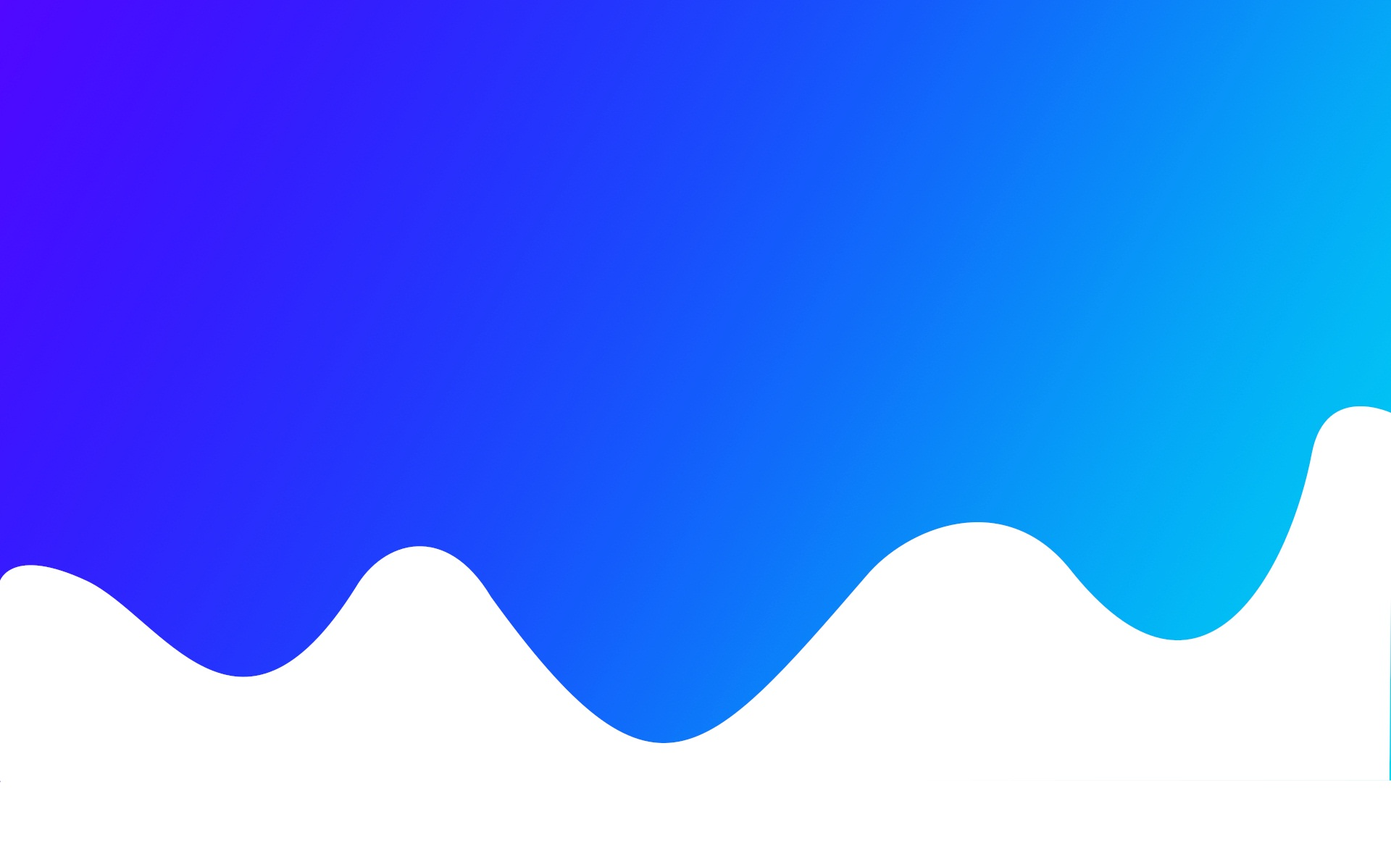
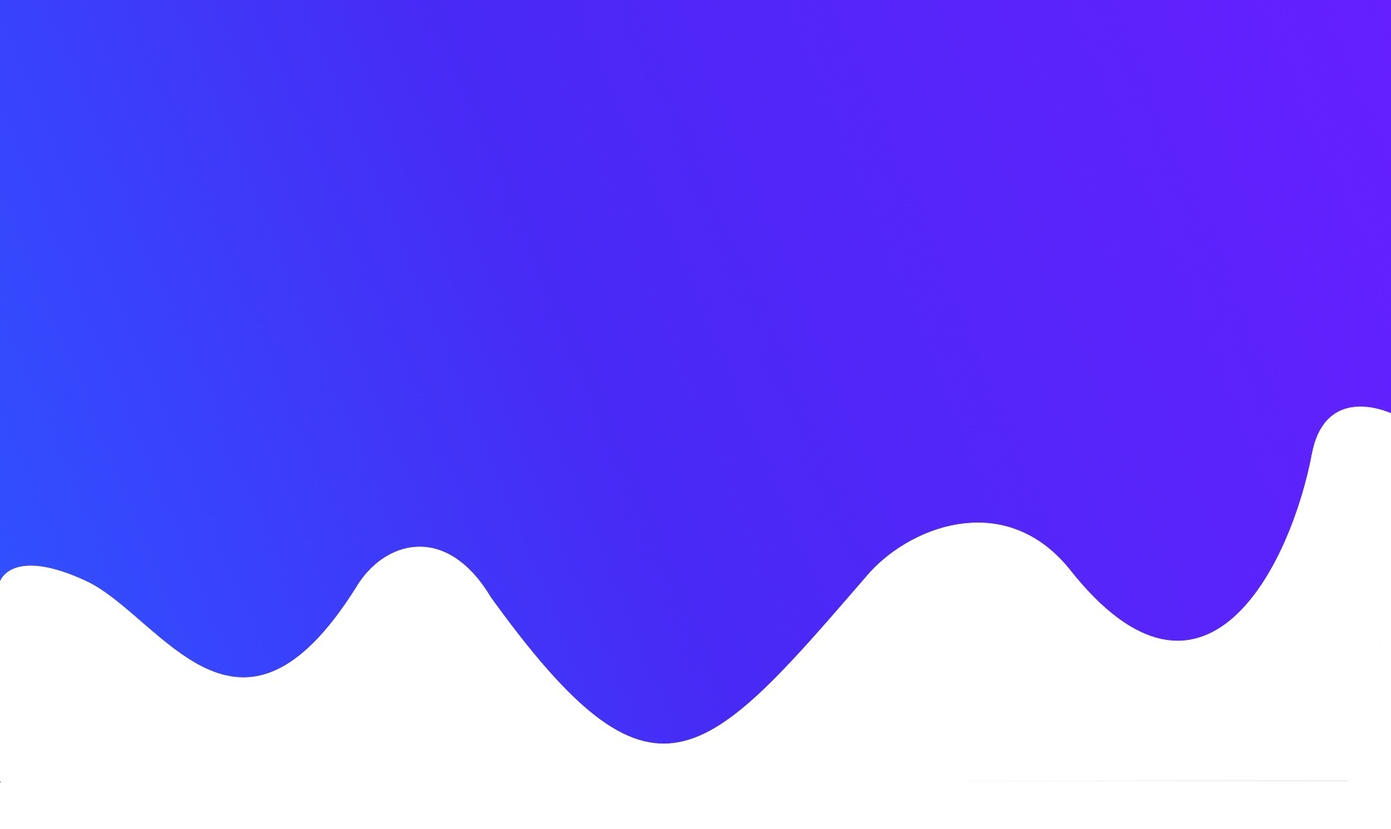
Add files via upload

diff --git a/css/aos.css b/css/aos.css
@@ -1,0 +1,1 @@
+[data-aos][data-aos][data-aos-duration="50"],body[data-aos-duration="50"] [data-aos]{transition-duration:50ms}[data-aos][data-aos][data-aos-delay="50"],body[data-aos-delay="50"] [data-aos]{transition-delay:0}[data-aos][data-aos][data-aos-delay="50"].aos-animate,body[data-aos-delay="50"] [data-aos].aos-animate{transition-delay:50ms}[data-aos][data-aos][data-aos-duration="100"],body[data-aos-duration="100"] [data-aos]{transition-duration:.1s}[data-aos][data-aos][data-aos-delay="100"],body[data-aos-delay="100"] [data-aos]{transition-delay:0}[data-aos][data-aos][data-aos-delay="100"].aos-animate,body[data-aos-delay="100"] [data-aos].aos-animate{transition-delay:.1s}[data-aos][data-aos][data-aos-duration="150"],body[data-aos-duration="150"] [data-aos]{transition-duration:.15s}[data-aos][data-aos][data-aos-delay="150"],body[data-aos-delay="150"] [data-aos]{transition-delay:0}[data-aos][data-aos][data-aos-delay="150"].aos-animate,body[data-aos-delay="150"] [data-aos].aos-animate{transition-delay:.15s}[data-aos][data-aos][data-aos-duration="200"],body[data-aos-duration="200"] [data-aos]{transition-duration:.2s}[data-aos][data-aos][data-aos-delay="200"],body[data-aos-delay="200"] [data-aos]{transition-delay:0}[data-aos][data-aos][data-aos-delay="200"].aos-animate,body[data-aos-delay="200"] [data-aos].aos-animate{transition-delay:.2s}[data-aos][data-aos][data-aos-duration="250"],body[data-aos-duration="250"] [data-aos]{transition-duration:.25s}[data-aos][data-aos][data-aos-delay="250"],body[data-aos-delay="250"] [data-aos]{transition-delay:0}[data-aos][data-aos][data-aos-delay="250"].aos-animate,body[data-aos-delay="250"] [data-aos].aos-animate{transition-delay:.25s}[data-aos][data-aos][data-aos-duration="300"],body[data-aos-duration="300"] [data-aos]{transition-duration:.3s}[data-aos][data-aos][data-aos-delay="300"],body[data-aos-delay="300"] [data-aos]{transition-delay:0}[data-aos][data-aos][data-aos-delay="300"].aos-animate,body[data-aos-delay="300"] [data-aos].aos-animate{transition-delay:.3s}[data-aos][data-aos][data-aos-duration="350"],body[data-aos-duration="350"] [data-aos]{transition-duration:.35s}[data-aos][data-aos][data-aos-delay="350"],body[data-aos-delay="350"] [data-aos]{transition-delay:0}[data-aos][data-aos][data-aos-delay="350"].aos-animate,body[data-aos-delay="350"] [data-aos].aos-animate{transition-delay:.35s}[data-aos][data-aos][data-aos-duration="400"],body[data-aos-duration="400"] [data-aos]{transition-duration:.4s}[data-aos][data-aos][data-aos-delay="400"],body[data-aos-delay="400"] [data-aos]{transition-delay:0}[data-aos][data-aos][data-aos-delay="400"].aos-animate,body[data-aos-delay="400"] [data-aos].aos-animate{transition-delay:.4s}[data-aos][data-aos][data-aos-duration="450"],body[data-aos-duration="450"] [data-aos]{transition-duration:.45s}[data-aos][data-aos][data-aos-delay="450"],body[data-aos-delay="450"] [data-aos]{transition-delay:0}[data-aos][data-aos][data-aos-delay="450"].aos-animate,body[data-aos-delay="450"] [data-aos].aos-animate{transition-delay:.45s}[data-aos][data-aos][data-aos-duration="500"],body[data-aos-duration="500"] [data-aos]{transition-duration:.5s}[data-aos][data-aos][data-aos-delay="500"],body[data-aos-delay="500"] [data-aos]{transition-delay:0}[data-aos][data-aos][data-aos-delay="500"].aos-animate,body[data-aos-delay="500"] [data-aos].aos-animate{transition-delay:.5s}[data-aos][data-aos][data-aos-duration="550"],body[data-aos-duration="550"] [data-aos]{transition-duration:.55s}[data-aos][data-aos][data-aos-delay="550"],body[data-aos-delay="550"] [data-aos]{transition-delay:0}[data-aos][data-aos][data-aos-delay="550"].aos-animate,body[data-aos-delay="550"] [data-aos].aos-animate{transition-delay:.55s}[data-aos][data-aos][data-aos-duration="600"],body[data-aos-duration="600"] [data-aos]{transition-duration:.6s}[data-aos][data-aos][data-aos-delay="600"],body[data-aos-delay="600"] [data-aos]{transition-delay:0}[data-aos][data-aos][data-aos-delay="600"].aos-animate,body[data-aos-delay="600"] [data-aos].aos-animate{transition-delay:.6s}[data-aos][data-aos][data-aos-duration="650"],body[data-aos-duration="650"] [data-aos]{transition-duration:.65s}[data-aos][data-aos][data-aos-delay="650"],body[data-aos-delay="650"] [data-aos]{transition-delay:0}[data-aos][data-aos][data-aos-delay="650"].aos-animate,body[data-aos-delay="650"] [data-aos].aos-animate{transition-delay:.65s}[data-aos][data-aos][data-aos-duration="700"],body[data-aos-duration="700"] [data-aos]{transition-duration:.7s}[data-aos][data-aos][data-aos-delay="700"],body[data-aos-delay="700"] [data-aos]{transition-delay:0}[data-aos][data-aos][data-aos-delay="700"].aos-animate,body[data-aos-delay="700"] [data-aos].aos-animate{transition-delay:.7s}[data-aos][data-aos][data-aos-duration="750"],body[data-aos-duration="750"] [data-aos]{transition-duration:.75s}[data-aos][data-aos][data-aos-delay="750"],body[data-aos-delay="750"] [data-aos]{transition-delay:0}[data-aos][data-aos][data-aos-delay="750"].aos-animate,body[data-aos-delay="750"] [data-aos].aos-animate{transition-delay:.75s}[data-aos][data-aos][data-aos-duration="800"],body[data-aos-duration="800"] [data-aos]{transition-duration:.8s}[data-aos][data-aos][data-aos-delay="800"],body[data-aos-delay="800"] [data-aos]{transition-delay:0}[data-aos][data-aos][data-aos-delay="800"].aos-animate,body[data-aos-delay="800"] [data-aos].aos-animate{transition-delay:.8s}[data-aos][data-aos][data-aos-duration="850"],body[data-aos-duration="850"] [data-aos]{transition-duration:.85s}[data-aos][data-aos][data-aos-delay="850"],body[data-aos-delay="850"] [data-aos]{transition-delay:0}[data-aos][data-aos][data-aos-delay="850"].aos-animate,body[data-aos-delay="850"] [data-aos].aos-animate{transition-delay:.85s}[data-aos][data-aos][data-aos-duration="900"],body[data-aos-duration="900"] [data-aos]{transition-duration:.9s}[data-aos][data-aos][data-aos-delay="900"],body[data-aos-delay="900"] [data-aos]{transition-delay:0}[data-aos][data-aos][data-aos-delay="900"].aos-animate,body[data-aos-delay="900"] [data-aos].aos-animate{transition-delay:.9s}[data-aos][data-aos][data-aos-duration="950"],body[data-aos-duration="950"] [data-aos]{transition-duration:.95s}[data-aos][data-aos][data-aos-delay="950"],body[data-aos-delay="950"] [data-aos]{transition-delay:0}[data-aos][data-aos][data-aos-delay="950"].aos-animate,body[data-aos-delay="950"] [data-aos].aos-animate{transition-delay:.95s}[data-aos][data-aos][data-aos-duration="1000"],body[data-aos-duration="1000"] [data-aos]{transition-duration:1s}[data-aos][data-aos][data-aos-delay="1000"],body[data-aos-delay="1000"] [data-aos]{transition-delay:0}[data-aos][data-aos][data-aos-delay="1000"].aos-animate,body[data-aos-delay="1000"] [data-aos].aos-animate{transition-delay:1s}[data-aos][data-aos][data-aos-duration="1050"],body[data-aos-duration="1050"] [data-aos]{transition-duration:1.05s}[data-aos][data-aos][data-aos-delay="1050"],body[data-aos-delay="1050"] [data-aos]{transition-delay:0}[data-aos][data-aos][data-aos-delay="1050"].aos-animate,body[data-aos-delay="1050"] [data-aos].aos-animate{transition-delay:1.05s}[data-aos][data-aos][data-aos-duration="1100"],body[data-aos-duration="1100"] [data-aos]{transition-duration:1.1s}[data-aos][data-aos][data-aos-delay="1100"],body[data-aos-delay="1100"] [data-aos]{transition-delay:0}[data-aos][data-aos][data-aos-delay="1100"].aos-animate,body[data-aos-delay="1100"] [data-aos].aos-animate{transition-delay:1.1s}[data-aos][data-aos][data-aos-duration="1150"],body[data-aos-duration="1150"] [data-aos]{transition-duration:1.15s}[data-aos][data-aos][data-aos-delay="1150"],body[data-aos-delay="1150"] [data-aos]{transition-delay:0}[data-aos][data-aos][data-aos-delay="1150"].aos-animate,body[data-aos-delay="1150"] [data-aos].aos-animate{transition-delay:1.15s}[data-aos][data-aos][data-aos-duration="1200"],body[data-aos-duration="1200"] [data-aos]{transition-duration:1.2s}[data-aos][data-aos][data-aos-delay="1200"],body[data-aos-delay="1200"] [data-aos]{transition-delay:0}[data-aos][data-aos][data-aos-delay="1200"].aos-animate,body[data-aos-delay="1200"] [data-aos].aos-animate{transition-delay:1.2s}[data-aos][data-aos][data-aos-duration="1250"],body[data-aos-duration="1250"] [data-aos]{transition-duration:1.25s}[data-aos][data-aos][data-aos-delay="1250"],body[data-aos-delay="1250"] [data-aos]{transition-delay:0}[data-aos][data-aos][data-aos-delay="1250"].aos-animate,body[data-aos-delay="1250"] [data-aos].aos-animate{transition-delay:1.25s}[data-aos][data-aos][data-aos-duration="1300"],body[data-aos-duration="1300"] [data-aos]{transition-duration:1.3s}[data-aos][data-aos][data-aos-delay="1300"],body[data-aos-delay="1300"] [data-aos]{transition-delay:0}[data-aos][data-aos][data-aos-delay="1300"].aos-animate,body[data-aos-delay="1300"] [data-aos].aos-animate{transition-delay:1.3s}[data-aos][data-aos][data-aos-duration="1350"],body[data-aos-duration="1350"] [data-aos]{transition-duration:1.35s}[data-aos][data-aos][data-aos-delay="1350"],body[data-aos-delay="1350"] [data-aos]{transition-delay:0}[data-aos][data-aos][data-aos-delay="1350"].aos-animate,body[data-aos-delay="1350"] [data-aos].aos-animate{transition-delay:1.35s}[data-aos][data-aos][data-aos-duration="1400"],body[data-aos-duration="1400"] [data-aos]{transition-duration:1.4s}[data-aos][data-aos][data-aos-delay="1400"],body[data-aos-delay="1400"] [data-aos]{transition-delay:0}[data-aos][data-aos][data-aos-delay="1400"].aos-animate,body[data-aos-delay="1400"] [data-aos].aos-animate{transition-delay:1.4s}[data-aos][data-aos][data-aos-duration="1450"],body[data-aos-duration="1450"] [data-aos]{transition-duration:1.45s}[data-aos][data-aos][data-aos-delay="1450"],body[data-aos-delay="1450"] [data-aos]{transition-delay:0}[data-aos][data-aos][data-aos-delay="1450"].aos-animate,body[data-aos-delay="1450"] [data-aos].aos-animate{transition-delay:1.45s}[data-aos][data-aos][data-aos-duration="1500"],body[data-aos-duration="1500"] [data-aos]{transition-duration:1.5s}[data-aos][data-aos][data-aos-delay="1500"],body[data-aos-delay="1500"] [data-aos]{transition-delay:0}[data-aos][data-aos][data-aos-delay="1500"].aos-animate,body[data-aos-delay="1500"] [data-aos].aos-animate{transition-delay:1.5s}[data-aos][data-aos][data-aos-duration="1550"],body[data-aos-duration="1550"] [data-aos]{transition-duration:1.55s}[data-aos][data-aos][data-aos-delay="1550"],body[data-aos-delay="1550"] [data-aos]{transition-delay:0}[data-aos][data-aos][data-aos-delay="1550"].aos-animate,body[data-aos-delay="1550"] [data-aos].aos-animate{transition-delay:1.55s}[data-aos][data-aos][data-aos-duration="1600"],body[data-aos-duration="1600"] [data-aos]{transition-duration:1.6s}[data-aos][data-aos][data-aos-delay="1600"],body[data-aos-delay="1600"] [data-aos]{transition-delay:0}[data-aos][data-aos][data-aos-delay="1600"].aos-animate,body[data-aos-delay="1600"] [data-aos].aos-animate{transition-delay:1.6s}[data-aos][data-aos][data-aos-duration="1650"],body[data-aos-duration="1650"] [data-aos]{transition-duration:1.65s}[data-aos][data-aos][data-aos-delay="1650"],body[data-aos-delay="1650"] [data-aos]{transition-delay:0}[data-aos][data-aos][data-aos-delay="1650"].aos-animate,body[data-aos-delay="1650"] [data-aos].aos-animate{transition-delay:1.65s}[data-aos][data-aos][data-aos-duration="1700"],body[data-aos-duration="1700"] [data-aos]{transition-duration:1.7s}[data-aos][data-aos][data-aos-delay="1700"],body[data-aos-delay="1700"] [data-aos]{transition-delay:0}[data-aos][data-aos][data-aos-delay="1700"].aos-animate,body[data-aos-delay="1700"] [data-aos].aos-animate{transition-delay:1.7s}[data-aos][data-aos][data-aos-duration="1750"],body[data-aos-duration="1750"] [data-aos]{transition-duration:1.75s}[data-aos][data-aos][data-aos-delay="1750"],body[data-aos-delay="1750"] [data-aos]{transition-delay:0}[data-aos][data-aos][data-aos-delay="1750"].aos-animate,body[data-aos-delay="1750"] [data-aos].aos-animate{transition-delay:1.75s}[data-aos][data-aos][data-aos-duration="1800"],body[data-aos-duration="1800"] [data-aos]{transition-duration:1.8s}[data-aos][data-aos][data-aos-delay="1800"],body[data-aos-delay="1800"] [data-aos]{transition-delay:0}[data-aos][data-aos][data-aos-delay="1800"].aos-animate,body[data-aos-delay="1800"] [data-aos].aos-animate{transition-delay:1.8s}[data-aos][data-aos][data-aos-duration="1850"],body[data-aos-duration="1850"] [data-aos]{transition-duration:1.85s}[data-aos][data-aos][data-aos-delay="1850"],body[data-aos-delay="1850"] [data-aos]{transition-delay:0}[data-aos][data-aos][data-aos-delay="1850"].aos-animate,body[data-aos-delay="1850"] [data-aos].aos-animate{transition-delay:1.85s}[data-aos][data-aos][data-aos-duration="1900"],body[data-aos-duration="1900"] [data-aos]{transition-duration:1.9s}[data-aos][data-aos][data-aos-delay="1900"],body[data-aos-delay="1900"] [data-aos]{transition-delay:0}[data-aos][data-aos][data-aos-delay="1900"].aos-animate,body[data-aos-delay="1900"] [data-aos].aos-animate{transition-delay:1.9s}[data-aos][data-aos][data-aos-duration="1950"],body[data-aos-duration="1950"] [data-aos]{transition-duration:1.95s}[data-aos][data-aos][data-aos-delay="1950"],body[data-aos-delay="1950"] [data-aos]{transition-delay:0}[data-aos][data-aos][data-aos-delay="1950"].aos-animate,body[data-aos-delay="1950"] [data-aos].aos-animate{transition-delay:1.95s}[data-aos][data-aos][data-aos-duration="2000"],body[data-aos-duration="2000"] [data-aos]{transition-duration:2s}[data-aos][data-aos][data-aos-delay="2000"],body[data-aos-delay="2000"] [data-aos]{transition-delay:0}[data-aos][data-aos][data-aos-delay="2000"].aos-animate,body[data-aos-delay="2000"] [data-aos].aos-animate{transition-delay:2s}[data-aos][data-aos][data-aos-duration="2050"],body[data-aos-duration="2050"] [data-aos]{transition-duration:2.05s}[data-aos][data-aos][data-aos-delay="2050"],body[data-aos-delay="2050"] [data-aos]{transition-delay:0}[data-aos][data-aos][data-aos-delay="2050"].aos-animate,body[data-aos-delay="2050"] [data-aos].aos-animate{transition-delay:2.05s}[data-aos][data-aos][data-aos-duration="2100"],body[data-aos-duration="2100"] [data-aos]{transition-duration:2.1s}[data-aos][data-aos][data-aos-delay="2100"],body[data-aos-delay="2100"] [data-aos]{transition-delay:0}[data-aos][data-aos][data-aos-delay="2100"].aos-animate,body[data-aos-delay="2100"] [data-aos].aos-animate{transition-delay:2.1s}[data-aos][data-aos][data-aos-duration="2150"],body[data-aos-duration="2150"] [data-aos]{transition-duration:2.15s}[data-aos][data-aos][data-aos-delay="2150"],body[data-aos-delay="2150"] [data-aos]{transition-delay:0}[data-aos][data-aos][data-aos-delay="2150"].aos-animate,body[data-aos-delay="2150"] [data-aos].aos-animate{transition-delay:2.15s}[data-aos][data-aos][data-aos-duration="2200"],body[data-aos-duration="2200"] [data-aos]{transition-duration:2.2s}[data-aos][data-aos][data-aos-delay="2200"],body[data-aos-delay="2200"] [data-aos]{transition-delay:0}[data-aos][data-aos][data-aos-delay="2200"].aos-animate,body[data-aos-delay="2200"] [data-aos].aos-animate{transition-delay:2.2s}[data-aos][data-aos][data-aos-duration="2250"],body[data-aos-duration="2250"] [data-aos]{transition-duration:2.25s}[data-aos][data-aos][data-aos-delay="2250"],body[data-aos-delay="2250"] [data-aos]{transition-delay:0}[data-aos][data-aos][data-aos-delay="2250"].aos-animate,body[data-aos-delay="2250"] [data-aos].aos-animate{transition-delay:2.25s}[data-aos][data-aos][data-aos-duration="2300"],body[data-aos-duration="2300"] [data-aos]{transition-duration:2.3s}[data-aos][data-aos][data-aos-delay="2300"],body[data-aos-delay="2300"] [data-aos]{transition-delay:0}[data-aos][data-aos][data-aos-delay="2300"].aos-animate,body[data-aos-delay="2300"] [data-aos].aos-animate{transition-delay:2.3s}[data-aos][data-aos][data-aos-duration="2350"],body[data-aos-duration="2350"] [data-aos]{transition-duration:2.35s}[data-aos][data-aos][data-aos-delay="2350"],body[data-aos-delay="2350"] [data-aos]{transition-delay:0}[data-aos][data-aos][data-aos-delay="2350"].aos-animate,body[data-aos-delay="2350"] [data-aos].aos-animate{transition-delay:2.35s}[data-aos][data-aos][data-aos-duration="2400"],body[data-aos-duration="2400"] [data-aos]{transition-duration:2.4s}[data-aos][data-aos][data-aos-delay="2400"],body[data-aos-delay="2400"] [data-aos]{transition-delay:0}[data-aos][data-aos][data-aos-delay="2400"].aos-animate,body[data-aos-delay="2400"] [data-aos].aos-animate{transition-delay:2.4s}[data-aos][data-aos][data-aos-duration="2450"],body[data-aos-duration="2450"] [data-aos]{transition-duration:2.45s}[data-aos][data-aos][data-aos-delay="2450"],body[data-aos-delay="2450"] [data-aos]{transition-delay:0}[data-aos][data-aos][data-aos-delay="2450"].aos-animate,body[data-aos-delay="2450"] [data-aos].aos-animate{transition-delay:2.45s}[data-aos][data-aos][data-aos-duration="2500"],body[data-aos-duration="2500"] [data-aos]{transition-duration:2.5s}[data-aos][data-aos][data-aos-delay="2500"],body[data-aos-delay="2500"] [data-aos]{transition-delay:0}[data-aos][data-aos][data-aos-delay="2500"].aos-animate,body[data-aos-delay="2500"] [data-aos].aos-animate{transition-delay:2.5s}[data-aos][data-aos][data-aos-duration="2550"],body[data-aos-duration="2550"] [data-aos]{transition-duration:2.55s}[data-aos][data-aos][data-aos-delay="2550"],body[data-aos-delay="2550"] [data-aos]{transition-delay:0}[data-aos][data-aos][data-aos-delay="2550"].aos-animate,body[data-aos-delay="2550"] [data-aos].aos-animate{transition-delay:2.55s}[data-aos][data-aos][data-aos-duration="2600"],body[data-aos-duration="2600"] [data-aos]{transition-duration:2.6s}[data-aos][data-aos][data-aos-delay="2600"],body[data-aos-delay="2600"] [data-aos]{transition-delay:0}[data-aos][data-aos][data-aos-delay="2600"].aos-animate,body[data-aos-delay="2600"] [data-aos].aos-animate{transition-delay:2.6s}[data-aos][data-aos][data-aos-duration="2650"],body[data-aos-duration="2650"] [data-aos]{transition-duration:2.65s}[data-aos][data-aos][data-aos-delay="2650"],body[data-aos-delay="2650"] [data-aos]{transition-delay:0}[data-aos][data-aos][data-aos-delay="2650"].aos-animate,body[data-aos-delay="2650"] [data-aos].aos-animate{transition-delay:2.65s}[data-aos][data-aos][data-aos-duration="2700"],body[data-aos-duration="2700"] [data-aos]{transition-duration:2.7s}[data-aos][data-aos][data-aos-delay="2700"],body[data-aos-delay="2700"] [data-aos]{transition-delay:0}[data-aos][data-aos][data-aos-delay="2700"].aos-animate,body[data-aos-delay="2700"] [data-aos].aos-animate{transition-delay:2.7s}[data-aos][data-aos][data-aos-duration="2750"],body[data-aos-duration="2750"] [data-aos]{transition-duration:2.75s}[data-aos][data-aos][data-aos-delay="2750"],body[data-aos-delay="2750"] [data-aos]{transition-delay:0}[data-aos][data-aos][data-aos-delay="2750"].aos-animate,body[data-aos-delay="2750"] [data-aos].aos-animate{transition-delay:2.75s}[data-aos][data-aos][data-aos-duration="2800"],body[data-aos-duration="2800"] [data-aos]{transition-duration:2.8s}[data-aos][data-aos][data-aos-delay="2800"],body[data-aos-delay="2800"] [data-aos]{transition-delay:0}[data-aos][data-aos][data-aos-delay="2800"].aos-animate,body[data-aos-delay="2800"] [data-aos].aos-animate{transition-delay:2.8s}[data-aos][data-aos][data-aos-duration="2850"],body[data-aos-duration="2850"] [data-aos]{transition-duration:2.85s}[data-aos][data-aos][data-aos-delay="2850"],body[data-aos-delay="2850"] [data-aos]{transition-delay:0}[data-aos][data-aos][data-aos-delay="2850"].aos-animate,body[data-aos-delay="2850"] [data-aos].aos-animate{transition-delay:2.85s}[data-aos][data-aos][data-aos-duration="2900"],body[data-aos-duration="2900"] [data-aos]{transition-duration:2.9s}[data-aos][data-aos][data-aos-delay="2900"],body[data-aos-delay="2900"] [data-aos]{transition-delay:0}[data-aos][data-aos][data-aos-delay="2900"].aos-animate,body[data-aos-delay="2900"] [data-aos].aos-animate{transition-delay:2.9s}[data-aos][data-aos][data-aos-duration="2950"],body[data-aos-duration="2950"] [data-aos]{transition-duration:2.95s}[data-aos][data-aos][data-aos-delay="2950"],body[data-aos-delay="2950"] [data-aos]{transition-delay:0}[data-aos][data-aos][data-aos-delay="2950"].aos-animate,body[data-aos-delay="2950"] [data-aos].aos-animate{transition-delay:2.95s}[data-aos][data-aos][data-aos-duration="3000"],body[data-aos-duration="3000"] [data-aos]{transition-duration:3s}[data-aos][data-aos][data-aos-delay="3000"],body[data-aos-delay="3000"] [data-aos]{transition-delay:0}[data-aos][data-aos][data-aos-delay="3000"].aos-animate,body[data-aos-delay="3000"] [data-aos].aos-animate{transition-delay:3s}[data-aos][data-aos][data-aos-easing=linear],body[data-aos-easing=linear] [data-aos]{transition-timing-function:cubic-bezier(.25,.25,.75,.75)}[data-aos][data-aos][data-aos-easing=ease],body[data-aos-easing=ease] [data-aos]{transition-timing-function:ease}[data-aos][data-aos][data-aos-easing=ease-in],body[data-aos-easing=ease-in] [data-aos]{transition-timing-function:ease-in}[data-aos][data-aos][data-aos-easing=ease-out],body[data-aos-easing=ease-out] [data-aos]{transition-timing-function:ease-out}[data-aos][data-aos][data-aos-easing=ease-in-out],body[data-aos-easing=ease-in-out] [data-aos]{transition-timing-function:ease-in-out}[data-aos][data-aos][data-aos-easing=ease-in-back],body[data-aos-easing=ease-in-back] [data-aos]{transition-timing-function:cubic-bezier(.6,-.28,.735,.045)}[data-aos][data-aos][data-aos-easing=ease-out-back],body[data-aos-easing=ease-out-back] [data-aos]{transition-timing-function:cubic-bezier(.175,.885,.32,1.275)}[data-aos][data-aos][data-aos-easing=ease-in-out-back],body[data-aos-easing=ease-in-out-back] [data-aos]{transition-timing-function:cubic-bezier(.68,-.55,.265,1.55)}[data-aos][data-aos][data-aos-easing=ease-in-sine],body[data-aos-easing=ease-in-sine] [data-aos]{transition-timing-function:cubic-bezier(.47,0,.745,.715)}[data-aos][data-aos][data-aos-easing=ease-out-sine],body[data-aos-easing=ease-out-sine] [data-aos]{transition-timing-function:cubic-bezier(.39,.575,.565,1)}[data-aos][data-aos][data-aos-easing=ease-in-out-sine],body[data-aos-easing=ease-in-out-sine] [data-aos]{transition-timing-function:cubic-bezier(.445,.05,.55,.95)}[data-aos][data-aos][data-aos-easing=ease-in-quad],body[data-aos-easing=ease-in-quad] [data-aos]{transition-timing-function:cubic-bezier(.55,.085,.68,.53)}[data-aos][data-aos][data-aos-easing=ease-out-quad],body[data-aos-easing=ease-out-quad] [data-aos]{transition-timing-function:cubic-bezier(.25,.46,.45,.94)}[data-aos][data-aos][data-aos-easing=ease-in-out-quad],body[data-aos-easing=ease-in-out-quad] [data-aos]{transition-timing-function:cubic-bezier(.455,.03,.515,.955)}[data-aos][data-aos][data-aos-easing=ease-in-cubic],body[data-aos-easing=ease-in-cubic] [data-aos]{transition-timing-function:cubic-bezier(.55,.085,.68,.53)}[data-aos][data-aos][data-aos-easing=ease-out-cubic],body[data-aos-easing=ease-out-cubic] [data-aos]{transition-timing-function:cubic-bezier(.25,.46,.45,.94)}[data-aos][data-aos][data-aos-easing=ease-in-out-cubic],body[data-aos-easing=ease-in-out-cubic] [data-aos]{transition-timing-function:cubic-bezier(.455,.03,.515,.955)}[data-aos][data-aos][data-aos-easing=ease-in-quart],body[data-aos-easing=ease-in-quart] [data-aos]{transition-timing-function:cubic-bezier(.55,.085,.68,.53)}[data-aos][data-aos][data-aos-easing=ease-out-quart],body[data-aos-easing=ease-out-quart] [data-aos]{transition-timing-function:cubic-bezier(.25,.46,.45,.94)}[data-aos][data-aos][data-aos-easing=ease-in-out-quart],body[data-aos-easing=ease-in-out-quart] [data-aos]{transition-timing-function:cubic-bezier(.455,.03,.515,.955)}[data-aos^=fade][data-aos^=fade]{opacity:0;transition-property:opacity,transform}[data-aos^=fade][data-aos^=fade].aos-animate{opacity:1;transform:translateZ(0)}[data-aos=fade-up]{transform:translate3d(0,100px,0)}[data-aos=fade-down]{transform:translate3d(0,-100px,0)}[data-aos=fade-right]{transform:translate3d(-100px,0,0)}[data-aos=fade-left]{transform:translate3d(100px,0,0)}[data-aos=fade-up-right]{transform:translate3d(-100px,100px,0)}[data-aos=fade-up-left]{transform:translate3d(100px,100px,0)}[data-aos=fade-down-right]{transform:translate3d(-100px,-100px,0)}[data-aos=fade-down-left]{transform:translate3d(100px,-100px,0)}[data-aos^=zoom][data-aos^=zoom]{opacity:0;transition-property:opacity,transform}[data-aos^=zoom][data-aos^=zoom].aos-animate{opacity:1;transform:translateZ(0) scale(1)}[data-aos=zoom-in]{transform:scale(.6)}[data-aos=zoom-in-up]{transform:translate3d(0,100px,0) scale(.6)}[data-aos=zoom-in-down]{transform:translate3d(0,-100px,0) scale(.6)}[data-aos=zoom-in-right]{transform:translate3d(-100px,0,0) scale(.6)}[data-aos=zoom-in-left]{transform:translate3d(100px,0,0) scale(.6)}[data-aos=zoom-out]{transform:scale(1.2)}[data-aos=zoom-out-up]{transform:translate3d(0,100px,0) scale(1.2)}[data-aos=zoom-out-down]{transform:translate3d(0,-100px,0) scale(1.2)}[data-aos=zoom-out-right]{transform:translate3d(-100px,0,0) scale(1.2)}[data-aos=zoom-out-left]{transform:translate3d(100px,0,0) scale(1.2)}[data-aos^=slide][data-aos^=slide]{transition-property:transform}[data-aos^=slide][data-aos^=slide].aos-animate{transform:translateZ(0)}[data-aos=slide-up]{transform:translate3d(0,100%,0)}[data-aos=slide-down]{transform:translate3d(0,-100%,0)}[data-aos=slide-right]{transform:translate3d(-100%,0,0)}[data-aos=slide-left]{transform:translate3d(100%,0,0)}[data-aos^=flip][data-aos^=flip]{backface-visibility:hidden;transition-property:transform}[data-aos=flip-left]{transform:perspective(2500px) rotateY(-100deg)}[data-aos=flip-left].aos-animate{transform:perspective(2500px) rotateY(0)}[data-aos=flip-right]{transform:perspective(2500px) rotateY(100deg)}[data-aos=flip-right].aos-animate{transform:perspective(2500px) rotateY(0)}[data-aos=flip-up]{transform:perspective(2500px) rotateX(-100deg)}[data-aos=flip-up].aos-animate{transform:perspective(2500px) rotateX(0)}[data-aos=flip-down]{transform:perspective(2500px) rotateX(100deg)}[data-aos=flip-down].aos-animate{transform:perspective(2500px) rotateX(0)}

diff --git a/script/aos.js b/script/aos.js
@@ -1,0 +1,1 @@
+!function(e,t){"object"==typeof exports&&"object"==typeof module?module.exports=t():"function"==typeof define&&define.amd?define([],t):"object"==typeof exports?exports.AOS=t():e.AOS=t()}(this,function(){return function(e){function t(o){if(n[o])return n[o].exports;var i=n[o]={exports:{},id:o,loaded:!1};return e[o].call(i.exports,i,i.exports,t),i.loaded=!0,i.exports}var n={};return t.m=e,t.c=n,t.p="dist/",t(0)}([function(e,t,n){"use strict";function o(e){return e&&e.__esModule?e:{default:e}}var i=Object.assign||function(e){for(var t=1;t<arguments.length;t++){var n=arguments[t];for(var o in n)Object.prototype.hasOwnProperty.call(n,o)&&(e[o]=n[o])}return e},r=n(1),a=(o(r),n(6)),u=o(a),c=n(7),s=o(c),f=n(8),d=o(f),l=n(9),p=o(l),m=n(10),b=o(m),v=n(11),y=o(v),g=n(14),h=o(g),w=[],k=!1,x={offset:120,delay:0,easing:"ease",duration:400,disable:!1,once:!1,startEvent:"DOMContentLoaded",throttleDelay:99,debounceDelay:50,disableMutationObserver:!1},j=function(){var e=arguments.length>0&&void 0!==arguments[0]&&arguments[0];if(e&&(k=!0),k)return w=(0,y.default)(w,x),(0,b.default)(w,x.once),w},O=function(){w=(0,h.default)(),j()},M=function(){w.forEach(function(e,t){e.node.removeAttribute("data-aos"),e.node.removeAttribute("data-aos-easing"),e.node.removeAttribute("data-aos-duration"),e.node.removeAttribute("data-aos-delay")})},S=function(e){return e===!0||"mobile"===e&&p.default.mobile()||"phone"===e&&p.default.phone()||"tablet"===e&&p.default.tablet()||"function"==typeof e&&e()===!0},_=function(e){x=i(x,e),w=(0,h.default)();var t=document.all&&!window.atob;return S(x.disable)||t?M():(x.disableMutationObserver||d.default.isSupported()||(console.info('\n      aos: MutationObserver is not supported on this browser,\n      code mutations observing has been disabled.\n      You may have to call "refreshHard()" by yourself.\n    '),x.disableMutationObserver=!0),document.querySelector("body").setAttribute("data-aos-easing",x.easing),document.querySelector("body").setAttribute("data-aos-duration",x.duration),document.querySelector("body").setAttribute("data-aos-delay",x.delay),"DOMContentLoaded"===x.startEvent&&["complete","interactive"].indexOf(document.readyState)>-1?j(!0):"load"===x.startEvent?window.addEventListener(x.startEvent,function(){j(!0)}):document.addEventListener(x.startEvent,function(){j(!0)}),window.addEventListener("resize",(0,s.default)(j,x.debounceDelay,!0)),window.addEventListener("orientationchange",(0,s.default)(j,x.debounceDelay,!0)),window.addEventListener("scroll",(0,u.default)(function(){(0,b.default)(w,x.once)},x.throttleDelay)),x.disableMutationObserver||d.default.ready("[data-aos]",O),w)};e.exports={init:_,refresh:j,refreshHard:O}},function(e,t){},,,,,function(e,t){(function(t){"use strict";function n(e,t,n){function o(t){var n=b,o=v;return b=v=void 0,k=t,g=e.apply(o,n)}function r(e){return k=e,h=setTimeout(f,t),M?o(e):g}function a(e){var n=e-w,o=e-k,i=t-n;return S?j(i,y-o):i}function c(e){var n=e-w,o=e-k;return void 0===w||n>=t||n<0||S&&o>=y}function f(){var e=O();return c(e)?d(e):void(h=setTimeout(f,a(e)))}function d(e){return h=void 0,_&&b?o(e):(b=v=void 0,g)}function l(){void 0!==h&&clearTimeout(h),k=0,b=w=v=h=void 0}function p(){return void 0===h?g:d(O())}function m(){var e=O(),n=c(e);if(b=arguments,v=this,w=e,n){if(void 0===h)return r(w);if(S)return h=setTimeout(f,t),o(w)}return void 0===h&&(h=setTimeout(f,t)),g}var b,v,y,g,h,w,k=0,M=!1,S=!1,_=!0;if("function"!=typeof e)throw new TypeError(s);return t=u(t)||0,i(n)&&(M=!!n.leading,S="maxWait"in n,y=S?x(u(n.maxWait)||0,t):y,_="trailing"in n?!!n.trailing:_),m.cancel=l,m.flush=p,m}function o(e,t,o){var r=!0,a=!0;if("function"!=typeof e)throw new TypeError(s);return i(o)&&(r="leading"in o?!!o.leading:r,a="trailing"in o?!!o.trailing:a),n(e,t,{leading:r,maxWait:t,trailing:a})}function i(e){var t="undefined"==typeof e?"undefined":c(e);return!!e&&("object"==t||"function"==t)}function r(e){return!!e&&"object"==("undefined"==typeof e?"undefined":c(e))}function a(e){return"symbol"==("undefined"==typeof e?"undefined":c(e))||r(e)&&k.call(e)==d}function u(e){if("number"==typeof e)return e;if(a(e))return f;if(i(e)){var t="function"==typeof e.valueOf?e.valueOf():e;e=i(t)?t+"":t}if("string"!=typeof e)return 0===e?e:+e;e=e.replace(l,"");var n=m.test(e);return n||b.test(e)?v(e.slice(2),n?2:8):p.test(e)?f:+e}var c="function"==typeof Symbol&&"symbol"==typeof Symbol.iterator?function(e){return typeof e}:function(e){return e&&"function"==typeof Symbol&&e.constructor===Symbol&&e!==Symbol.prototype?"symbol":typeof e},s="Expected a function",f=NaN,d="[object Symbol]",l=/^\s+|\s+$/g,p=/^[-+]0x[0-9a-f]+$/i,m=/^0b[01]+$/i,b=/^0o[0-7]+$/i,v=parseInt,y="object"==("undefined"==typeof t?"undefined":c(t))&&t&&t.Object===Object&&t,g="object"==("undefined"==typeof self?"undefined":c(self))&&self&&self.Object===Object&&self,h=y||g||Function("return this")(),w=Object.prototype,k=w.toString,x=Math.max,j=Math.min,O=function(){return h.Date.now()};e.exports=o}).call(t,function(){return this}())},function(e,t){(function(t){"use strict";function n(e,t,n){function i(t){var n=b,o=v;return b=v=void 0,O=t,g=e.apply(o,n)}function r(e){return O=e,h=setTimeout(f,t),M?i(e):g}function u(e){var n=e-w,o=e-O,i=t-n;return S?x(i,y-o):i}function s(e){var n=e-w,o=e-O;return void 0===w||n>=t||n<0||S&&o>=y}function f(){var e=j();return s(e)?d(e):void(h=setTimeout(f,u(e)))}function d(e){return h=void 0,_&&b?i(e):(b=v=void 0,g)}function l(){void 0!==h&&clearTimeout(h),O=0,b=w=v=h=void 0}function p(){return void 0===h?g:d(j())}function m(){var e=j(),n=s(e);if(b=arguments,v=this,w=e,n){if(void 0===h)return r(w);if(S)return h=setTimeout(f,t),i(w)}return void 0===h&&(h=setTimeout(f,t)),g}var b,v,y,g,h,w,O=0,M=!1,S=!1,_=!0;if("function"!=typeof e)throw new TypeError(c);return t=a(t)||0,o(n)&&(M=!!n.leading,S="maxWait"in n,y=S?k(a(n.maxWait)||0,t):y,_="trailing"in n?!!n.trailing:_),m.cancel=l,m.flush=p,m}function o(e){var t="undefined"==typeof e?"undefined":u(e);return!!e&&("object"==t||"function"==t)}function i(e){return!!e&&"object"==("undefined"==typeof e?"undefined":u(e))}function r(e){return"symbol"==("undefined"==typeof e?"undefined":u(e))||i(e)&&w.call(e)==f}function a(e){if("number"==typeof e)return e;if(r(e))return s;if(o(e)){var t="function"==typeof e.valueOf?e.valueOf():e;e=o(t)?t+"":t}if("string"!=typeof e)return 0===e?e:+e;e=e.replace(d,"");var n=p.test(e);return n||m.test(e)?b(e.slice(2),n?2:8):l.test(e)?s:+e}var u="function"==typeof Symbol&&"symbol"==typeof Symbol.iterator?function(e){return typeof e}:function(e){return e&&"function"==typeof Symbol&&e.constructor===Symbol&&e!==Symbol.prototype?"symbol":typeof e},c="Expected a function",s=NaN,f="[object Symbol]",d=/^\s+|\s+$/g,l=/^[-+]0x[0-9a-f]+$/i,p=/^0b[01]+$/i,m=/^0o[0-7]+$/i,b=parseInt,v="object"==("undefined"==typeof t?"undefined":u(t))&&t&&t.Object===Object&&t,y="object"==("undefined"==typeof self?"undefined":u(self))&&self&&self.Object===Object&&self,g=v||y||Function("return this")(),h=Object.prototype,w=h.toString,k=Math.max,x=Math.min,j=function(){return g.Date.now()};e.exports=n}).call(t,function(){return this}())},function(e,t){"use strict";function n(e){var t=void 0,o=void 0,i=void 0;for(t=0;t<e.length;t+=1){if(o=e[t],o.dataset&&o.dataset.aos)return!0;if(i=o.children&&n(o.children))return!0}return!1}function o(){return window.MutationObserver||window.WebKitMutationObserver||window.MozMutationObserver}function i(){return!!o()}function r(e,t){var n=window.document,i=o(),r=new i(a);u=t,r.observe(n.documentElement,{childList:!0,subtree:!0,removedNodes:!0})}function a(e){e&&e.forEach(function(e){var t=Array.prototype.slice.call(e.addedNodes),o=Array.prototype.slice.call(e.removedNodes),i=t.concat(o);if(n(i))return u()})}Object.defineProperty(t,"__esModule",{value:!0});var u=function(){};t.default={isSupported:i,ready:r}},function(e,t){"use strict";function n(e,t){if(!(e instanceof t))throw new TypeError("Cannot call a class as a function")}function o(){return navigator.userAgent||navigator.vendor||window.opera||""}Object.defineProperty(t,"__esModule",{value:!0});var i=function(){function e(e,t){for(var n=0;n<t.length;n++){var o=t[n];o.enumerable=o.enumerable||!1,o.configurable=!0,"value"in o&&(o.writable=!0),Object.defineProperty(e,o.key,o)}}return function(t,n,o){return n&&e(t.prototype,n),o&&e(t,o),t}}(),r=/(android|bb\d+|meego).+mobile|avantgo|bada\/|blackberry|blazer|compal|elaine|fennec|hiptop|iemobile|ip(hone|od)|iris|kindle|lge |maemo|midp|mmp|mobile.+firefox|netfront|opera m(ob|in)i|palm( os)?|phone|p(ixi|re)\/|plucker|pocket|psp|series(4|6)0|symbian|treo|up\.(browser|link)|vodafone|wap|windows ce|xda|xiino/i,a=/1207|6310|6590|3gso|4thp|50[1-6]i|770s|802s|a wa|abac|ac(er|oo|s\-)|ai(ko|rn)|al(av|ca|co)|amoi|an(ex|ny|yw)|aptu|ar(ch|go)|as(te|us)|attw|au(di|\-m|r |s )|avan|be(ck|ll|nq)|bi(lb|rd)|bl(ac|az)|br(e|v)w|bumb|bw\-(n|u)|c55\/|capi|ccwa|cdm\-|cell|chtm|cldc|cmd\-|co(mp|nd)|craw|da(it|ll|ng)|dbte|dc\-s|devi|dica|dmob|do(c|p)o|ds(12|\-d)|el(49|ai)|em(l2|ul)|er(ic|k0)|esl8|ez([4-7]0|os|wa|ze)|fetc|fly(\-|_)|g1 u|g560|gene|gf\-5|g\-mo|go(\.w|od)|gr(ad|un)|haie|hcit|hd\-(m|p|t)|hei\-|hi(pt|ta)|hp( i|ip)|hs\-c|ht(c(\-| |_|a|g|p|s|t)|tp)|hu(aw|tc)|i\-(20|go|ma)|i230|iac( |\-|\/)|ibro|idea|ig01|ikom|im1k|inno|ipaq|iris|ja(t|v)a|jbro|jemu|jigs|kddi|keji|kgt( |\/)|klon|kpt |kwc\-|kyo(c|k)|le(no|xi)|lg( g|\/(k|l|u)|50|54|\-[a-w])|libw|lynx|m1\-w|m3ga|m50\/|ma(te|ui|xo)|mc(01|21|ca)|m\-cr|me(rc|ri)|mi(o8|oa|ts)|mmef|mo(01|02|bi|de|do|t(\-| |o|v)|zz)|mt(50|p1|v )|mwbp|mywa|n10[0-2]|n20[2-3]|n30(0|2)|n50(0|2|5)|n7(0(0|1)|10)|ne((c|m)\-|on|tf|wf|wg|wt)|nok(6|i)|nzph|o2im|op(ti|wv)|oran|owg1|p800|pan(a|d|t)|pdxg|pg(13|\-([1-8]|c))|phil|pire|pl(ay|uc)|pn\-2|po(ck|rt|se)|prox|psio|pt\-g|qa\-a|qc(07|12|21|32|60|\-[2-7]|i\-)|qtek|r380|r600|raks|rim9|ro(ve|zo)|s55\/|sa(ge|ma|mm|ms|ny|va)|sc(01|h\-|oo|p\-)|sdk\/|se(c(\-|0|1)|47|mc|nd|ri)|sgh\-|shar|sie(\-|m)|sk\-0|sl(45|id)|sm(al|ar|b3|it|t5)|so(ft|ny)|sp(01|h\-|v\-|v )|sy(01|mb)|t2(18|50)|t6(00|10|18)|ta(gt|lk)|tcl\-|tdg\-|tel(i|m)|tim\-|t\-mo|to(pl|sh)|ts(70|m\-|m3|m5)|tx\-9|up(\.b|g1|si)|utst|v400|v750|veri|vi(rg|te)|vk(40|5[0-3]|\-v)|vm40|voda|vulc|vx(52|53|60|61|70|80|81|83|85|98)|w3c(\-| )|webc|whit|wi(g |nc|nw)|wmlb|wonu|x700|yas\-|your|zeto|zte\-/i,u=/(android|bb\d+|meego).+mobile|avantgo|bada\/|blackberry|blazer|compal|elaine|fennec|hiptop|iemobile|ip(hone|od)|iris|kindle|lge |maemo|midp|mmp|mobile.+firefox|netfront|opera m(ob|in)i|palm( os)?|phone|p(ixi|re)\/|plucker|pocket|psp|series(4|6)0|symbian|treo|up\.(browser|link)|vodafone|wap|windows ce|xda|xiino|android|ipad|playbook|silk/i,c=/1207|6310|6590|3gso|4thp|50[1-6]i|770s|802s|a wa|abac|ac(er|oo|s\-)|ai(ko|rn)|al(av|ca|co)|amoi|an(ex|ny|yw)|aptu|ar(ch|go)|as(te|us)|attw|au(di|\-m|r |s )|avan|be(ck|ll|nq)|bi(lb|rd)|bl(ac|az)|br(e|v)w|bumb|bw\-(n|u)|c55\/|capi|ccwa|cdm\-|cell|chtm|cldc|cmd\-|co(mp|nd)|craw|da(it|ll|ng)|dbte|dc\-s|devi|dica|dmob|do(c|p)o|ds(12|\-d)|el(49|ai)|em(l2|ul)|er(ic|k0)|esl8|ez([4-7]0|os|wa|ze)|fetc|fly(\-|_)|g1 u|g560|gene|gf\-5|g\-mo|go(\.w|od)|gr(ad|un)|haie|hcit|hd\-(m|p|t)|hei\-|hi(pt|ta)|hp( i|ip)|hs\-c|ht(c(\-| |_|a|g|p|s|t)|tp)|hu(aw|tc)|i\-(20|go|ma)|i230|iac( |\-|\/)|ibro|idea|ig01|ikom|im1k|inno|ipaq|iris|ja(t|v)a|jbro|jemu|jigs|kddi|keji|kgt( |\/)|klon|kpt |kwc\-|kyo(c|k)|le(no|xi)|lg( g|\/(k|l|u)|50|54|\-[a-w])|libw|lynx|m1\-w|m3ga|m50\/|ma(te|ui|xo)|mc(01|21|ca)|m\-cr|me(rc|ri)|mi(o8|oa|ts)|mmef|mo(01|02|bi|de|do|t(\-| |o|v)|zz)|mt(50|p1|v )|mwbp|mywa|n10[0-2]|n20[2-3]|n30(0|2)|n50(0|2|5)|n7(0(0|1)|10)|ne((c|m)\-|on|tf|wf|wg|wt)|nok(6|i)|nzph|o2im|op(ti|wv)|oran|owg1|p800|pan(a|d|t)|pdxg|pg(13|\-([1-8]|c))|phil|pire|pl(ay|uc)|pn\-2|po(ck|rt|se)|prox|psio|pt\-g|qa\-a|qc(07|12|21|32|60|\-[2-7]|i\-)|qtek|r380|r600|raks|rim9|ro(ve|zo)|s55\/|sa(ge|ma|mm|ms|ny|va)|sc(01|h\-|oo|p\-)|sdk\/|se(c(\-|0|1)|47|mc|nd|ri)|sgh\-|shar|sie(\-|m)|sk\-0|sl(45|id)|sm(al|ar|b3|it|t5)|so(ft|ny)|sp(01|h\-|v\-|v )|sy(01|mb)|t2(18|50)|t6(00|10|18)|ta(gt|lk)|tcl\-|tdg\-|tel(i|m)|tim\-|t\-mo|to(pl|sh)|ts(70|m\-|m3|m5)|tx\-9|up(\.b|g1|si)|utst|v400|v750|veri|vi(rg|te)|vk(40|5[0-3]|\-v)|vm40|voda|vulc|vx(52|53|60|61|70|80|81|83|85|98)|w3c(\-| )|webc|whit|wi(g |nc|nw)|wmlb|wonu|x700|yas\-|your|zeto|zte\-/i,s=function(){function e(){n(this,e)}return i(e,[{key:"phone",value:function(){var e=o();return!(!r.test(e)&&!a.test(e.substr(0,4)))}},{key:"mobile",value:function(){var e=o();return!(!u.test(e)&&!c.test(e.substr(0,4)))}},{key:"tablet",value:function(){return this.mobile()&&!this.phone()}}]),e}();t.default=new s},function(e,t){"use strict";Object.defineProperty(t,"__esModule",{value:!0});var n=function(e,t,n){var o=e.node.getAttribute("data-aos-once");t>e.position?e.node.classList.add("aos-animate"):"undefined"!=typeof o&&("false"===o||!n&&"true"!==o)&&e.node.classList.remove("aos-animate")},o=function(e,t){var o=window.pageYOffset,i=window.innerHeight;e.forEach(function(e,r){n(e,i+o,t)})};t.default=o},function(e,t,n){"use strict";function o(e){return e&&e.__esModule?e:{default:e}}Object.defineProperty(t,"__esModule",{value:!0});var i=n(12),r=o(i),a=function(e,t){return e.forEach(function(e,n){e.node.classList.add("aos-init"),e.position=(0,r.default)(e.node,t.offset)}),e};t.default=a},function(e,t,n){"use strict";function o(e){return e&&e.__esModule?e:{default:e}}Object.defineProperty(t,"__esModule",{value:!0});var i=n(13),r=o(i),a=function(e,t){var n=0,o=0,i=window.innerHeight,a={offset:e.getAttribute("data-aos-offset"),anchor:e.getAttribute("data-aos-anchor"),anchorPlacement:e.getAttribute("data-aos-anchor-placement")};switch(a.offset&&!isNaN(a.offset)&&(o=parseInt(a.offset)),a.anchor&&document.querySelectorAll(a.anchor)&&(e=document.querySelectorAll(a.anchor)[0]),n=(0,r.default)(e).top,a.anchorPlacement){case"top-bottom":break;case"center-bottom":n+=e.offsetHeight/2;break;case"bottom-bottom":n+=e.offsetHeight;break;case"top-center":n+=i/2;break;case"bottom-center":n+=i/2+e.offsetHeight;break;case"center-center":n+=i/2+e.offsetHeight/2;break;case"top-top":n+=i;break;case"bottom-top":n+=e.offsetHeight+i;break;case"center-top":n+=e.offsetHeight/2+i}return a.anchorPlacement||a.offset||isNaN(t)||(o=t),n+o};t.default=a},function(e,t){"use strict";Object.defineProperty(t,"__esModule",{value:!0});var n=function(e){for(var t=0,n=0;e&&!isNaN(e.offsetLeft)&&!isNaN(e.offsetTop);)t+=e.offsetLeft-("BODY"!=e.tagName?e.scrollLeft:0),n+=e.offsetTop-("BODY"!=e.tagName?e.scrollTop:0),e=e.offsetParent;return{top:n,left:t}};t.default=n},function(e,t){"use strict";Object.defineProperty(t,"__esModule",{value:!0});var n=function(e){return e=e||document.querySelectorAll("[data-aos]"),Array.prototype.map.call(e,function(e){return{node:e}})};t.default=n}])});

diff --git a/css/cards.css b/css/cards.css
@@ -1,10 +1,15 @@
-
+.body3 h1
+{
+	padding-top: 100px;
+}
 .card
 {	
 	display: flex;
 	flex-wrap: wrap;
 	justify-content: center;
 	margin: 0px;
+	padding-bottom: 100px;
+	padding-top: 50px;
 }
 .card .card-section
 {
@@ -14,8 +19,11 @@
 	height: 300px;
 	background: #262626;
 	overflow: hidden;
-	box-shadow: 5px 5px 10px #8888;
+	box-shadow: 0px 5px 10px rgba(0,0,0,0.5);
 	margin: 20px;
+	border: 2px solid rgba(48, 79, 254,1.0);
+	border-radius: 30px 30px 30px 0;
+
 }
 .card .card-section input,.card .card-section .toggle
 {
@@ -43,12 +51,13 @@
 }
 .card .card-section input:checked ~ .toggle
 {
-	box-shadow: 0 0 0 500px #EEEEEE;
+	box-shadow: 0 0 0 500px rgba(48, 79, 254,1.0);
 	transform: rotate(360deg);
 }
 .card .card-section .about_info
 {
-	color: #000;
+	color: #fff;
+    
 	position: absolute;
 	top: 0;
 	left: 0;
@@ -60,10 +69,12 @@
 .card .card-section .about_info h4
 {
 	text-decoration: underline;
+	font-family: 'Montserrat', sans-serif;
 }
 .card .card-section .about_info p
 {
 	padding-top: 10px;
+	font-family: 'Montserrat', sans-serif;
 }
 .card .card-section input:checked ~ .about_info
 {

diff --git a/css/main.css b/css/main.css
@@ -184,7 +184,7 @@ nav .toogle i:hover
 }
 .body2
 {
-	background: linear-gradient(90deg, rgba(30,144,255,1),rgba(138,43,226,1));	
+	background: linear-gradient(90deg, #304FFE,#651FFF);	
 }
 .body2 .body-container
 {
@@ -218,7 +218,7 @@ nav .toogle i:hover
 	border-radius: 15px 30px 30px 0px;
 	padding: 10px 20px;
 	background: #F50057;
-	box-shadow: 2px 2px 10px #424242;
+	box-shadow: 2px 2px 10px rgba(0,0,0,0.5);
 	transition: 0.5s ;
 	font-family: apple-bold;
 }
@@ -614,7 +614,7 @@ nav .logo img
 }
 .body5 .container .box .icon
 {
-	color: #000;
+	color: #212121;
 }
 .body5 .container .box .icon .fas,.body5 .container .box .icon .fab
 {
@@ -658,14 +658,14 @@ nav .logo img
 	left: 100%;
 	width: 100%;
 	height: 100%;
-	background: #F50057;
+	background: #651FFF;
 	transition: 1s;
 }
 .body5 .container .box .icon h4:before
 {
 	left: initial;
 	right: 100%;
-	background: rgba(41, 98, 255,1.0);
+	background: #651FFF;
 }
 .body5 .container .box .icon .fas:hover ~ h3:before
 {
